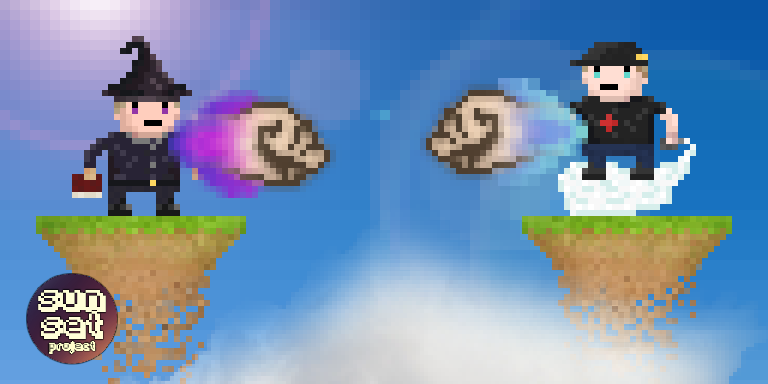
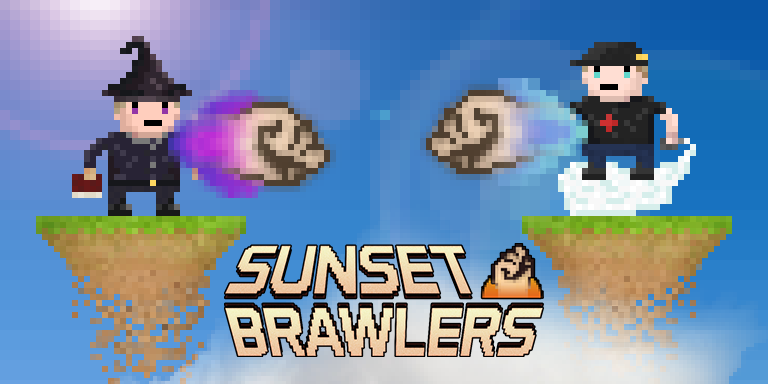
lit

Changed region(s): [[0.2812, 0.625, 0.7188, 0.9375], [0.0312, 0.6875, 0.1562, 0.9688]]

diff --git a/projects.html b/projects.html
@@ -57,10 +57,10 @@
 					<header>
 						<h2>Current Projects</h2>
 						<!-- Sunset -->
-						<p>Sunset Project - Pixel Brawling Chaos</p>
+						<p>Sunset Brawlers - Pixel Brawling Chaos</p>
 						<a href="http://sunset.btong.me/" class="image fit"><img src="images/projectSunset.png" alt="Sunset Project - Character Select Screen, made by Bryan Tong" /></a>
 					</header>
-						<p>Originally a present for some friends, Sunset Project has grown into a full-fledged online brawling game!<br />
+						<p>Originally a present for some friends, Sunset Brawlers has grown into a full-fledged online brawling game!<br />
 						Features multiple servers for lag-free combat with up to six players, 6+ unique characters, 3+ maps, customizable controls,
 						and hilarious aerial physics - all with a little hint of nostalgia.  Join the brawl today!  Free for iOS and <a href="https://play.google.com/store/apps/details?id=com.KiteLion.Sunset">Android.</a></p>
 						
